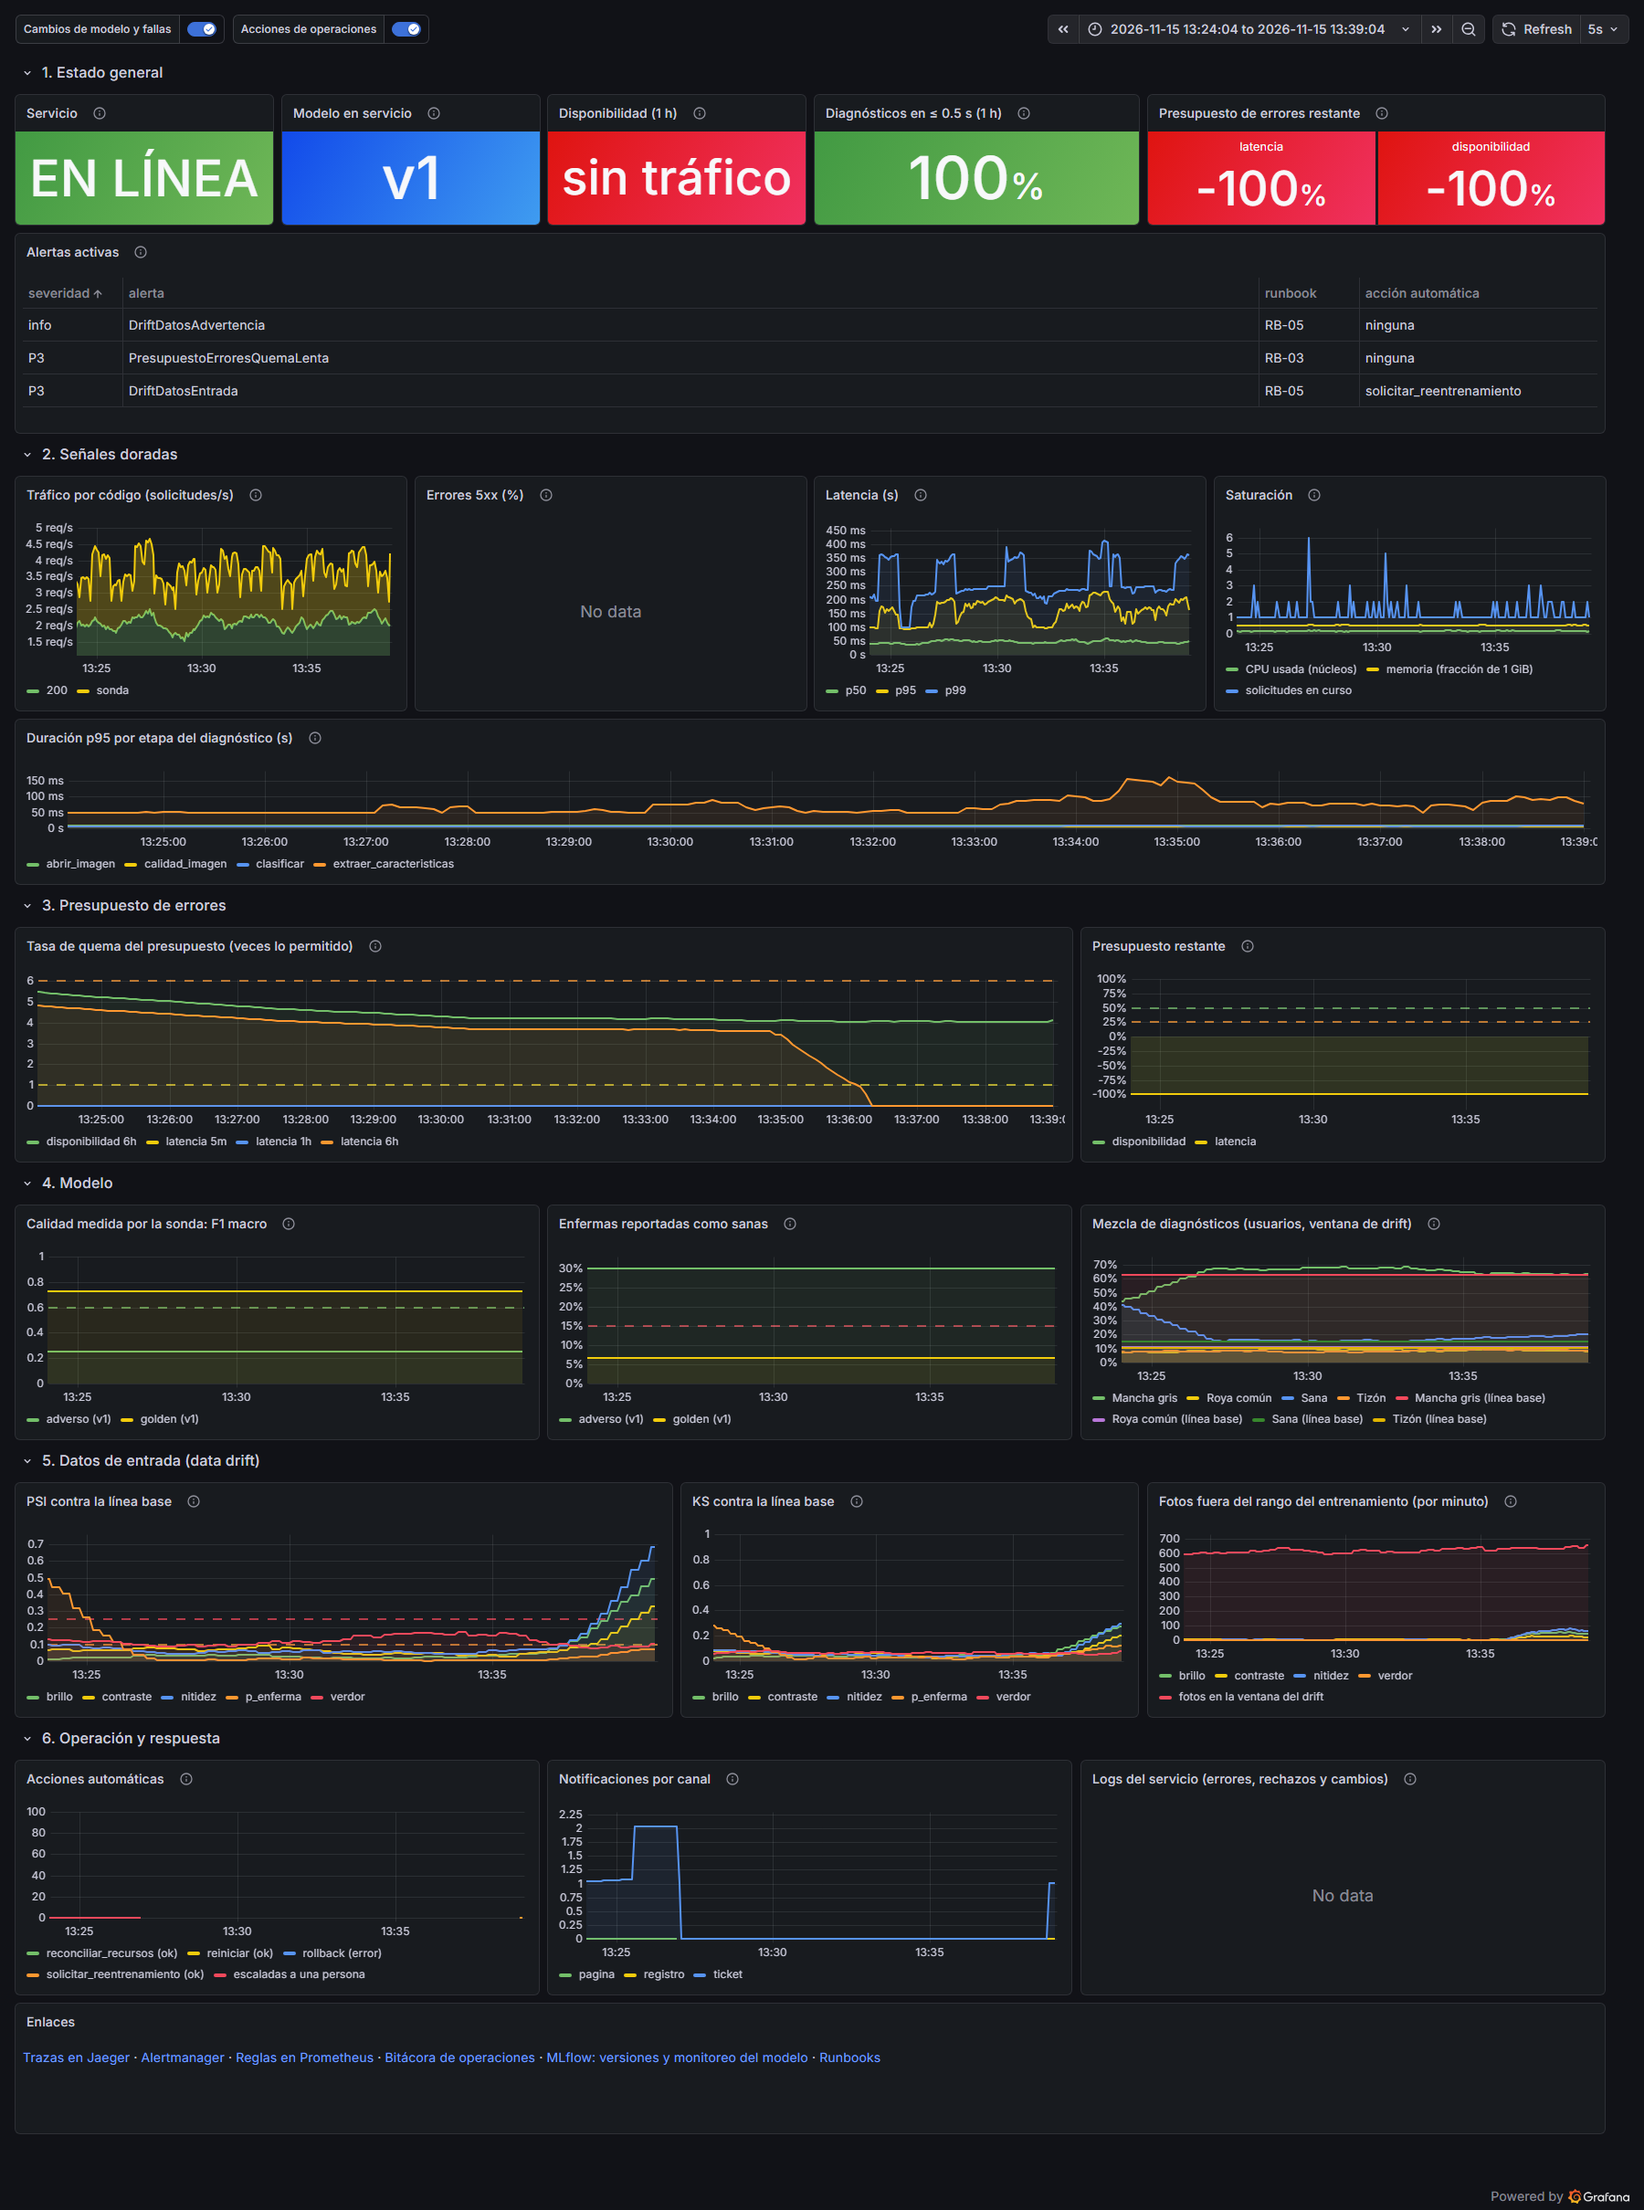
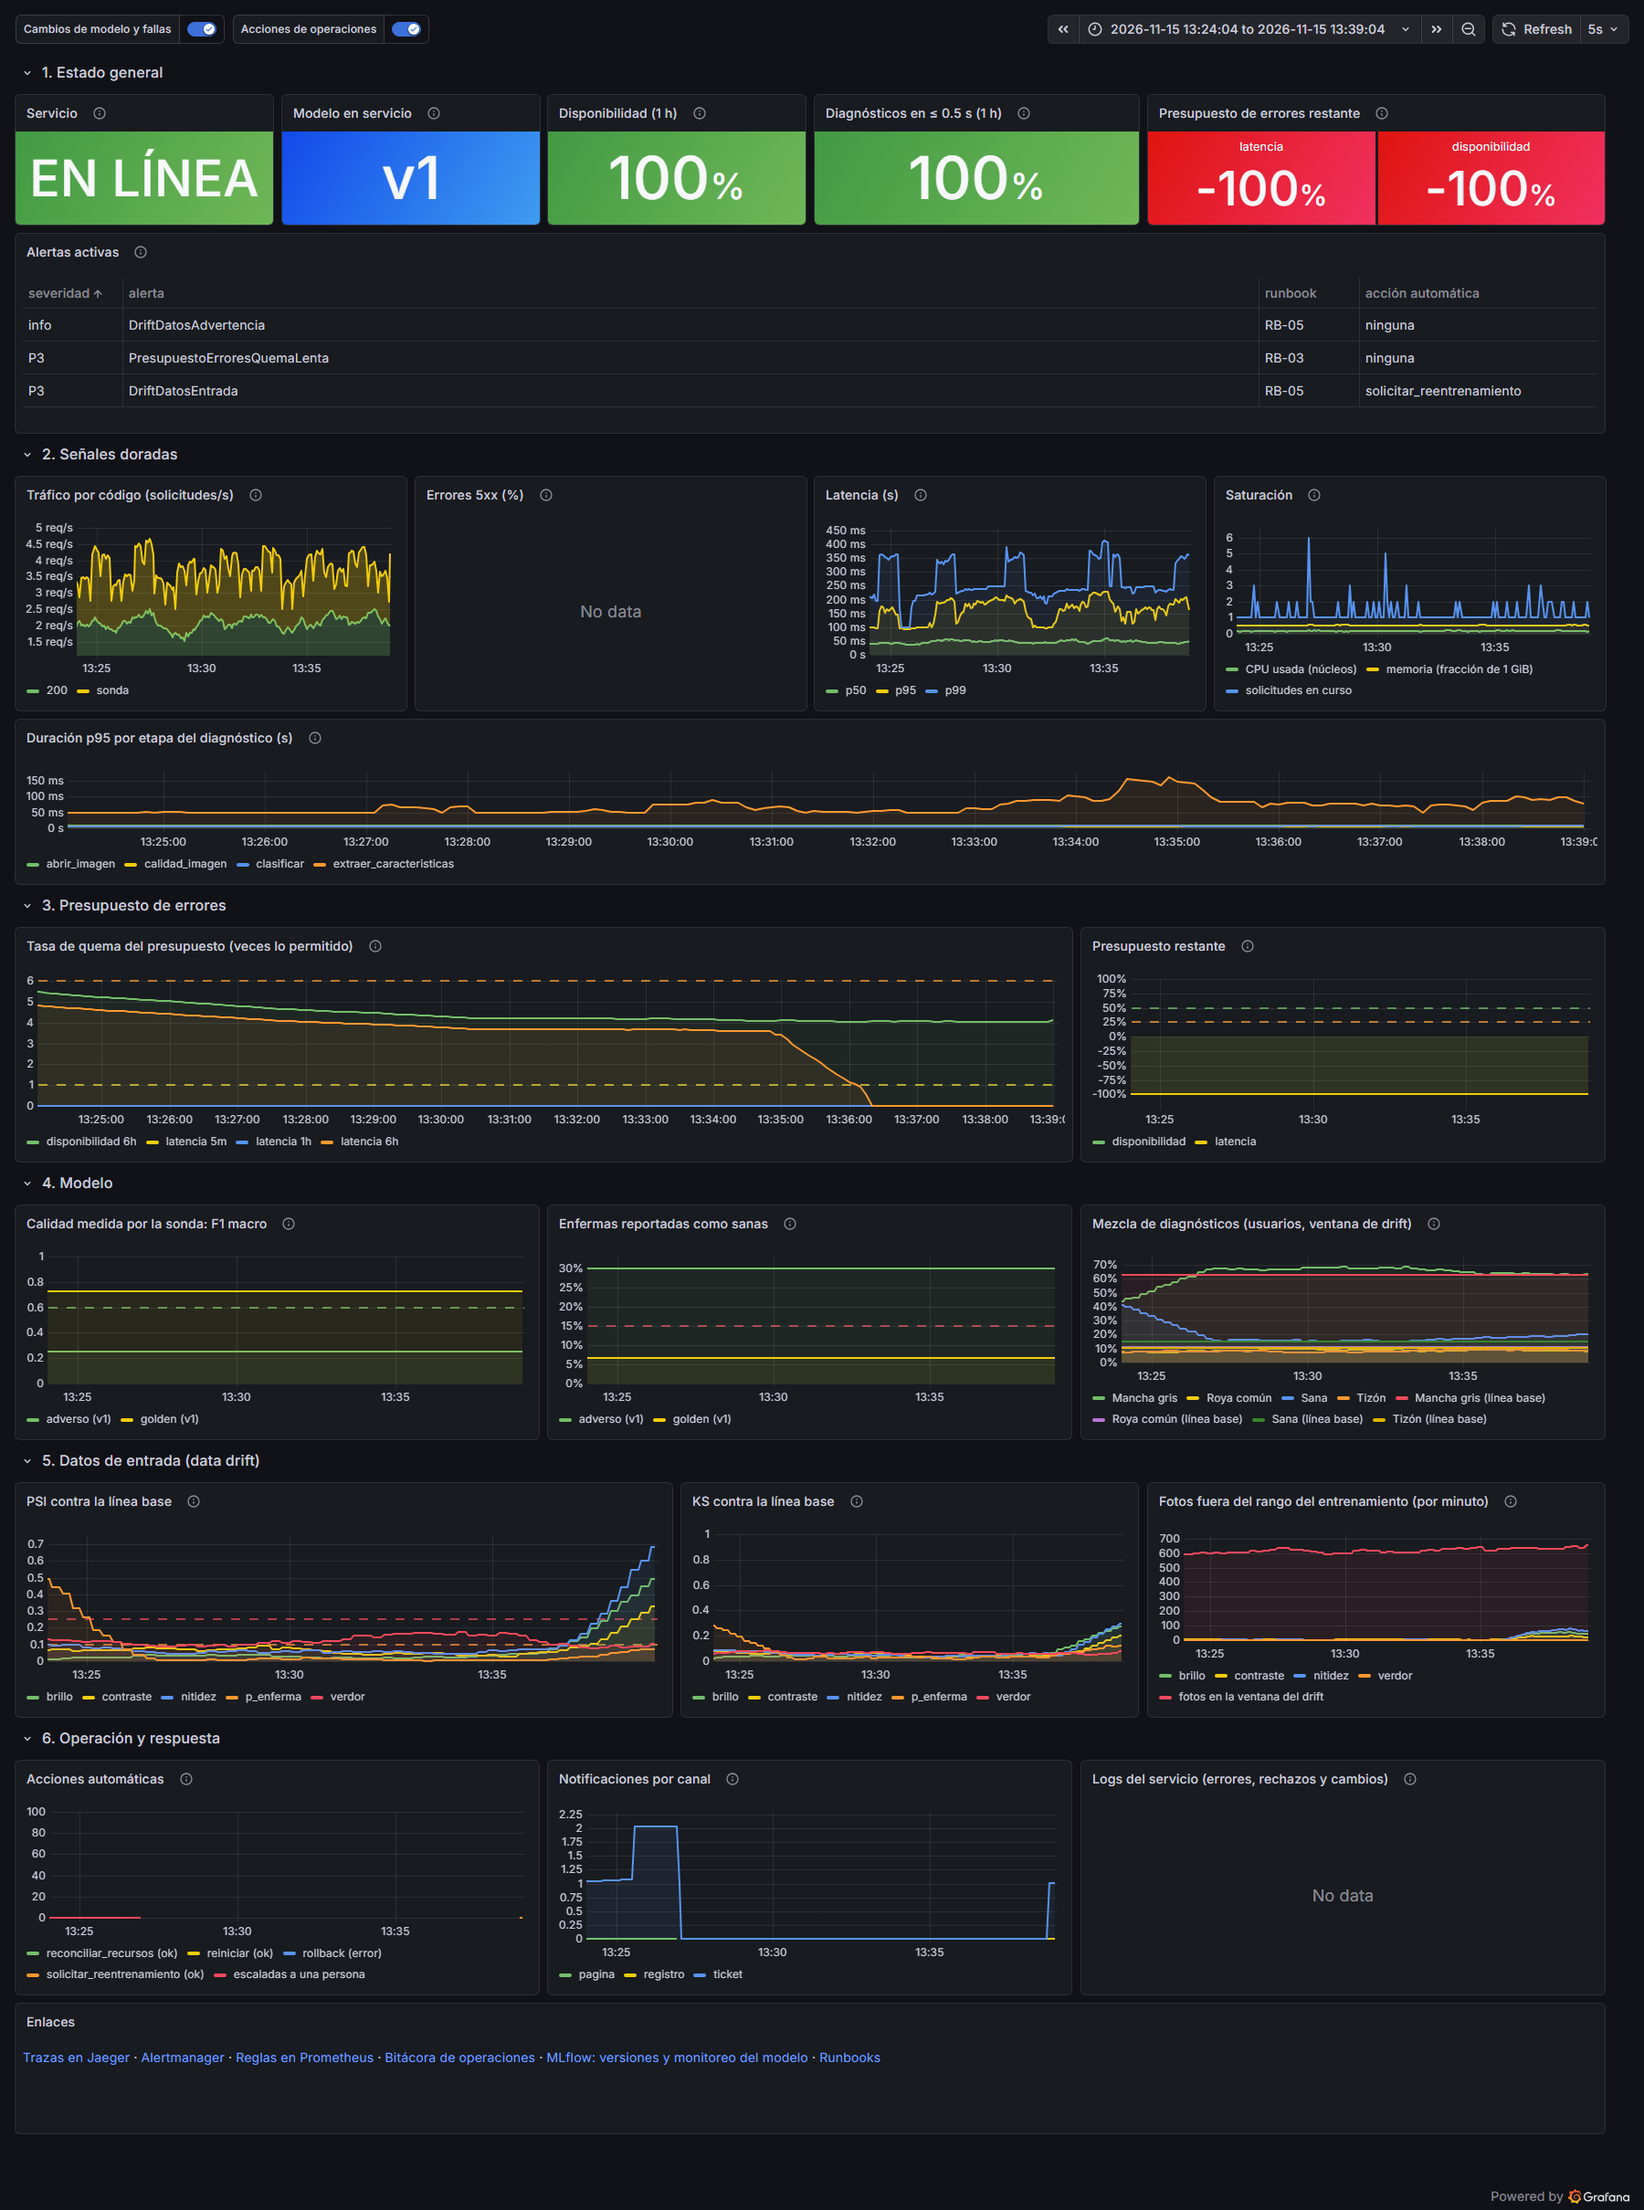
SLI de disponibilidad: 0 % de errores en lugar de vacío cuando hay tráfico y ningún 5xx
La serie de errores 5xx no existe hasta el primer error y desaparece cuando la API reinicia, así que con
tráfico normal la proporción de errores quedaba vacía y el tablero mostraba "sin tráfico" en rojo (se veía en
las capturas del INC-01, INC-02 e INC-05). slo.py ahora usa "or on() vector(0)" en el numerador; el panel de
disponibilidad cae a 100 % si hay solicitudes en la ventana, para los datos grabados antes de la corrección.
La captura del INC-01 se toma 3 s después de la alerta: a los 20 s el reinicio ya lo había resuelto.

Changed region(s): [[0.3111, 0.062, 0.4978, 0.124]]

diff --git a/monitoreo/tablero.py b/monitoreo/tablero.py
@@ -88,7 +88,10 @@ def construir():
                                                                        "1": {"text": "EN LÍNEA", "color": "green"}}}]),
         dato("Modelo en servicio", 4, y, 4, 4, [q("max by (version) (modelo_info)", "v{{version}}", instant=True)],
              "Versión del alias champion del registro.", texto="name", umbral=umbrales(("blue", None))),
-        dato("Disponibilidad (1 h)", 8, y, 4, 4, [q('1 - slo:proporcion_errores:v1h{slo="disponibilidad"}', instant=True)],
+        # Con tráfico y sin la proporción grabada (datos anteriores a la corrección en slo.py) se muestra 100 %;
+        # "sin tráfico" solo cuando de verdad no hubo solicitudes en la ventana
+        dato("Disponibilidad (1 h)", 8, y, 4, 4, [q('1 - (slo:proporcion_errores:v1h{slo="disponibilidad"} or on() '
+                                                    '(0 * (slo:solicitudes:v1h{slo="disponibilidad"} > 0)))', instant=True)],
              "SLO: 99.5 % sin errores 5xx.", "percentunit", umbrales(("red", None), ("orange", 0.99), ("green", 0.995))),
         dato("Diagnósticos en ≤ 0.5 s (1 h)", 12, y, 5, 4, [q('1 - slo:proporcion_errores:v1h{slo="latencia"}', instant=True)],
              "SLO: 99 % en 0.5 s o menos.", "percentunit", umbrales(("red", None), ("orange", 0.95), ("green", 0.99))),

diff --git a/monitoreo/slo.py b/monitoreo/slo.py
@@ -62,7 +62,9 @@ SLOS = [
     SLO(nombre="disponibilidad", titulo="Disponibilidad del diagnóstico", objetivo=0.995, ventana_dias=30,
         sli="Proporción de solicitudes de diagnóstico de usuarios que no terminan en error del servidor (5xx). "
             "Las fotos inválidas (4xx) son responsabilidad del cliente y no gastan presupuesto.",
-        malos=f'sum(rate(http_solicitudes_total{{{DIAGNOSTICOS},codigo=~"5.."}}[{{v}}]))',
+        # "or on() vector(0)": la serie de 5xx no existe hasta el primer error (y desaparece al reiniciar la API);
+        # sin esto, con tráfico y cero errores la proporción quedaba vacía en lugar de 0 % (ausencia no es cero)
+        malos=f'(sum(rate(http_solicitudes_total{{{DIAGNOSTICOS},codigo=~"5.."}}[{{v}}])) or on() vector(0))',
         totales=f'sum(rate(http_solicitudes_total{{{DIAGNOSTICOS}}}[{{v}}]))',
         severidades={"rapida": ("P1", "atender_errores", "RB-03"), "media": ("P2", "ninguna", "RB-03"),
                      "lenta": ("P3", "ninguna", "RB-03")}),

diff --git a/simulacion/capturar_evidencia.py b/simulacion/capturar_evidencia.py
@@ -123,7 +123,9 @@ def grafana():
         inc = json.loads(p.read_text(encoding="utf-8"))
         if not inc.get("t_alerta_alertmanager"):
             continue
-        hasta = ms(inc["t_alerta_alertmanager"]) + 20000            # 20 s después de la alerta: sigue activa
+        # 20 s después de la alerta (sigue activa); en el INC-01 el reinicio resuelve todo en ese lapso, así que se
+        # toma a los 3 s para que se vea el servicio caído y la alerta disparada
+        hasta = ms(inc["t_alerta_alertmanager"]) + (3000 if inc["id"] == "INC-01" else 20000)
         capturar(f"{GRAFANA}/d/operativo-maiz/?orgId=1&kiosk&from={hasta - 15 * 60000}&to={hasta}",
                  SALIDA / f"grafana_tablero_{inc['id'].lower().replace('-', '')}.png", 1800, 2420, 30000)
     resumen = json.loads((SIM / "resumen.json").read_text(encoding="utf-8"))
